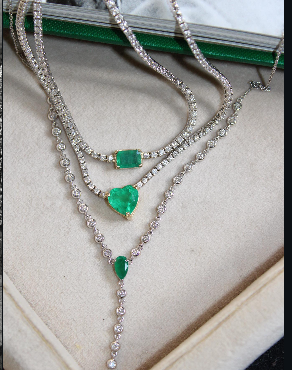
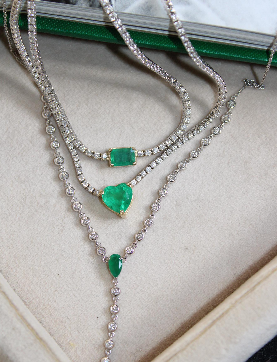
commit

Changed region(s): [[0.0, 0.0, 1.0, 1.0], [0.6643, 0.0, 0.6931, 0.0304]]

diff --git a/src/components/siteHeader.js b/src/components/siteHeader.js
@@ -7,8 +7,15 @@ export function siteHeader() {
   <header class="fixed top-0 left-0 right-0 z-50">
     <!-- ================= DESKTOP (Stitch: flagship homepage) ================= -->
     <div data-variant="desktop" class="bg-surface/95 backdrop-blur-md shadow-[0_1px_8px_rgba(0,0,0,0.03)]">
-      <div class="bg-on-surface text-surface py-space-xs px-gutter text-center">
-        <p class="font-label-sm text-label-sm uppercase tracking-[0.2em]">COMPLIMENTARY WORLDWIDE INSURED COURIER ON ALL 18KT FINE JEWELLERY ORDERS</p>
+      <div class="bg-on-surface text-surface py-space-xs overflow-hidden" data-announcement>
+        <div class="marquee-track flex whitespace-nowrap will-change-transform">
+          ${Array.from({ length: 6 })
+            .map(
+              () => `
+          <span class="marquee-item font-label-sm text-label-sm uppercase tracking-[0.2em] px-gutter">20% OFF YOUR FIRST ORDER · COMPLIMENTARY WORLDWIDE INSURED COURIER ON ALL 18KT FINE JEWELLERY</span>`
+            )
+            .join('')}
+        </div>
       </div>
       <div class="h-20 w-full px-margin-mobile lg:px-margin flex items-center justify-between">
         <div class="flex items-center gap-space-lg">
@@ -50,8 +57,15 @@ export function siteHeader() {
     <!-- ================= MOBILE (Stitch: flagship homepage_mobile) ================= -->
     <div data-variant="mobile" class="bg-surface/90 backdrop-blur-xl shadow-[0_1px_8px_rgba(0,0,0,0.04)]">
       <div class="pt-safe"></div>
-      <div class="bg-surface-container-high text-on-tertiary-container text-center py-1.5 px-margin-mobile flex items-center justify-center">
-        <span class="font-label-sm text-label-sm tracking-[0.18em] uppercase text-tertiary">COMPLIMENTARY INSURED SHIPPING ON FINE HEIRLOOMS</span>
+      <div class="bg-on-surface text-surface py-1.5 overflow-hidden" data-announcement>
+        <div class="marquee-track flex whitespace-nowrap will-change-transform">
+          ${Array.from({ length: 6 })
+            .map(
+              () => `
+          <span class="marquee-item font-label-sm text-label-sm uppercase tracking-[0.18em] px-4">20% OFF YOUR FIRST ORDER · COMPLIMENTARY INSURED SHIPPING ON FINE HEIRLOOMS</span>`
+            )
+            .join('')}
+        </div>
       </div>
       <div class="h-16 px-margin-mobile flex items-center justify-between gap-space-sm">
         <div class="flex items-center gap-space-sm">
@@ -59,7 +73,6 @@ export function siteHeader() {
             <span class="material-symbols-outlined text-[24px]">menu</span>
           </button>
           <a class="flex items-center gap-space-xs" data-path="explore" href="#">
-            ${brandMark('h-8 w-8')}
             <div class="flex flex-col">
               <span class="font-headline-sm text-headline-sm tracking-[0.08em] leading-none text-on-surface uppercase">TRES HERMANAS</span>
             </div>
@@ -69,16 +82,10 @@ export function siteHeader() {
           <button aria-label="Search Catalog" class="w-11 h-11 flex items-center justify-center text-on-surface hover:text-primary transition-colors">
             <span class="material-symbols-outlined text-[22px]">search</span>
           </button>
-          <a aria-label="Wishlist" class="w-11 h-11 flex items-center justify-center text-on-surface hover:text-primary transition-colors" data-path="saved" href="#">
-            <span class="material-symbols-outlined text-[22px]">favorite</span>
-          </a>
           <a aria-label="Shopping Bag" class="w-11 h-11 flex items-center justify-center text-on-surface hover:text-primary transition-colors relative" data-path="shopping-bag" href="#">
             <span class="material-symbols-outlined text-[22px]">shopping_bag</span>
             <span class="absolute top-2 right-2 w-4 h-4 bg-primary text-on-primary font-label-sm text-label-sm rounded-full flex items-center justify-center" data-cart-count>2</span>
           </a>
-          <div class="w-8 h-8 rounded-full bg-primary flex items-center justify-center ml-1">
-            <span class="material-symbols-outlined text-on-primary text-[18px]">person</span>
-          </div>
         </div>
       </div>
       <!-- Slide-down menu (not specified in the static export; minimal token-consistent drawer) -->
@@ -96,6 +103,17 @@ export function siteHeader() {
             )
             .join('')}
         </ul>
+        <!-- Moved from the header row: wishlist + account -->
+        <div class="mt-space-sm border-t border-outline-variant/40 pt-space-sm flex flex-col">
+          <a class="flex items-center gap-space-sm py-space-sm font-label-md text-label-md uppercase tracking-widest text-on-surface-variant hover:text-on-surface transition-colors" data-path="saved" href="#">
+            <span class="material-symbols-outlined text-[20px] text-outline">favorite</span>
+            <span>Wishlist</span>
+          </a>
+          <a class="flex items-center gap-space-sm py-space-sm font-label-md text-label-md uppercase tracking-widest text-on-surface-variant hover:text-on-surface transition-colors" href="#">
+            <span class="material-symbols-outlined text-[20px] text-outline">person</span>
+            <span>Account</span>
+          </a>
+        </div>
       </nav>
     </div>
   </header>`;

diff --git a/src/styles.css b/src/styles.css
@@ -39,6 +39,40 @@
 }
 
 /* ------------------------------------------------------------------
+   Announcement bar — infinite marquee. The track holds 6 copies of
+   the message and scrolls left by exactly one copy's width
+   (-100/6 %), so the loop is seamless. Pauses on hover.
+------------------------------------------------------------------- */
+.marquee-track {
+  width: max-content;
+  animation: marquee 24s linear infinite;
+}
+.marquee-item {
+  display: inline-block;
+}
+@keyframes marquee {
+  from {
+    transform: translateX(0);
+  }
+  to {
+    transform: translateX(calc(-100% / 6));
+  }
+}
+[data-announcement]:hover .marquee-track {
+  animation-play-state: paused;
+}
+@media (prefers-reduced-motion: reduce) {
+  .marquee-track {
+    animation: none;
+    width: auto;
+    justify-content: center;
+  }
+  .marquee-item:not(:first-child) {
+    display: none;
+  }
+}
+
+/* ------------------------------------------------------------------
    As Seen On — shoppable jewellery hotspot dots
    Dot pulses; hover / keyboard focus / tap reveals .shop-pop (the
    jewellery image popover). Tap toggle handled in main.js (.is-open).

diff --git a/src/data/sections.js b/src/data/sections.js
@@ -15,21 +15,21 @@ export const vitrines = [
   {
     label: 'Vitrine 01',
     title: 'Emeralds & Colored Gemstones',
-    img: '/imgs/2.jpg', // e.g. '/assets/imgs/vitrine-1.jpg'
+    img: '/imgs/10.jpg', // e.g. '/assets/imgs/vitrine-1.jpg'
     desc: 'Saturated Colombian Muzo emeralds, natural sapphire cabochons, and hand-cut bezel pendants.',
     cta: 'View 18 Emerald Designs'
   },
   {
     label: 'Vitrine 02',
     title: 'Layered 18KT Gold & Diamond Tennis',
-    img: '/imgs/1.jpg', // e.g. '/assets/imgs/vitrine-2.jpg'
+    img: '/imgs/18.png', // e.g. '/assets/imgs/vitrine-2.jpg'
     desc: 'Flawless diamond pavé chains, talismanic stars, emerald accent bangles, and fluid wrists.',
     cta: 'Explore Wrist Stacks'
   },
   {
     label: 'Vitrine 03',
     title: 'Signature Charms & Cord Amulets',
-    img: '/imgs/3.jpg', // e.g. '/assets/imgs/vitrine-3.jpg'
+    img: '/imgs/4.jpg', // e.g. '/assets/imgs/vitrine-3.jpg'
     desc: 'Hand-rolled Italian leather cord with clip-in gold gem charms for casual Mediterranean elegance.',
     cta: 'Discover Cord Amulets'
   },
